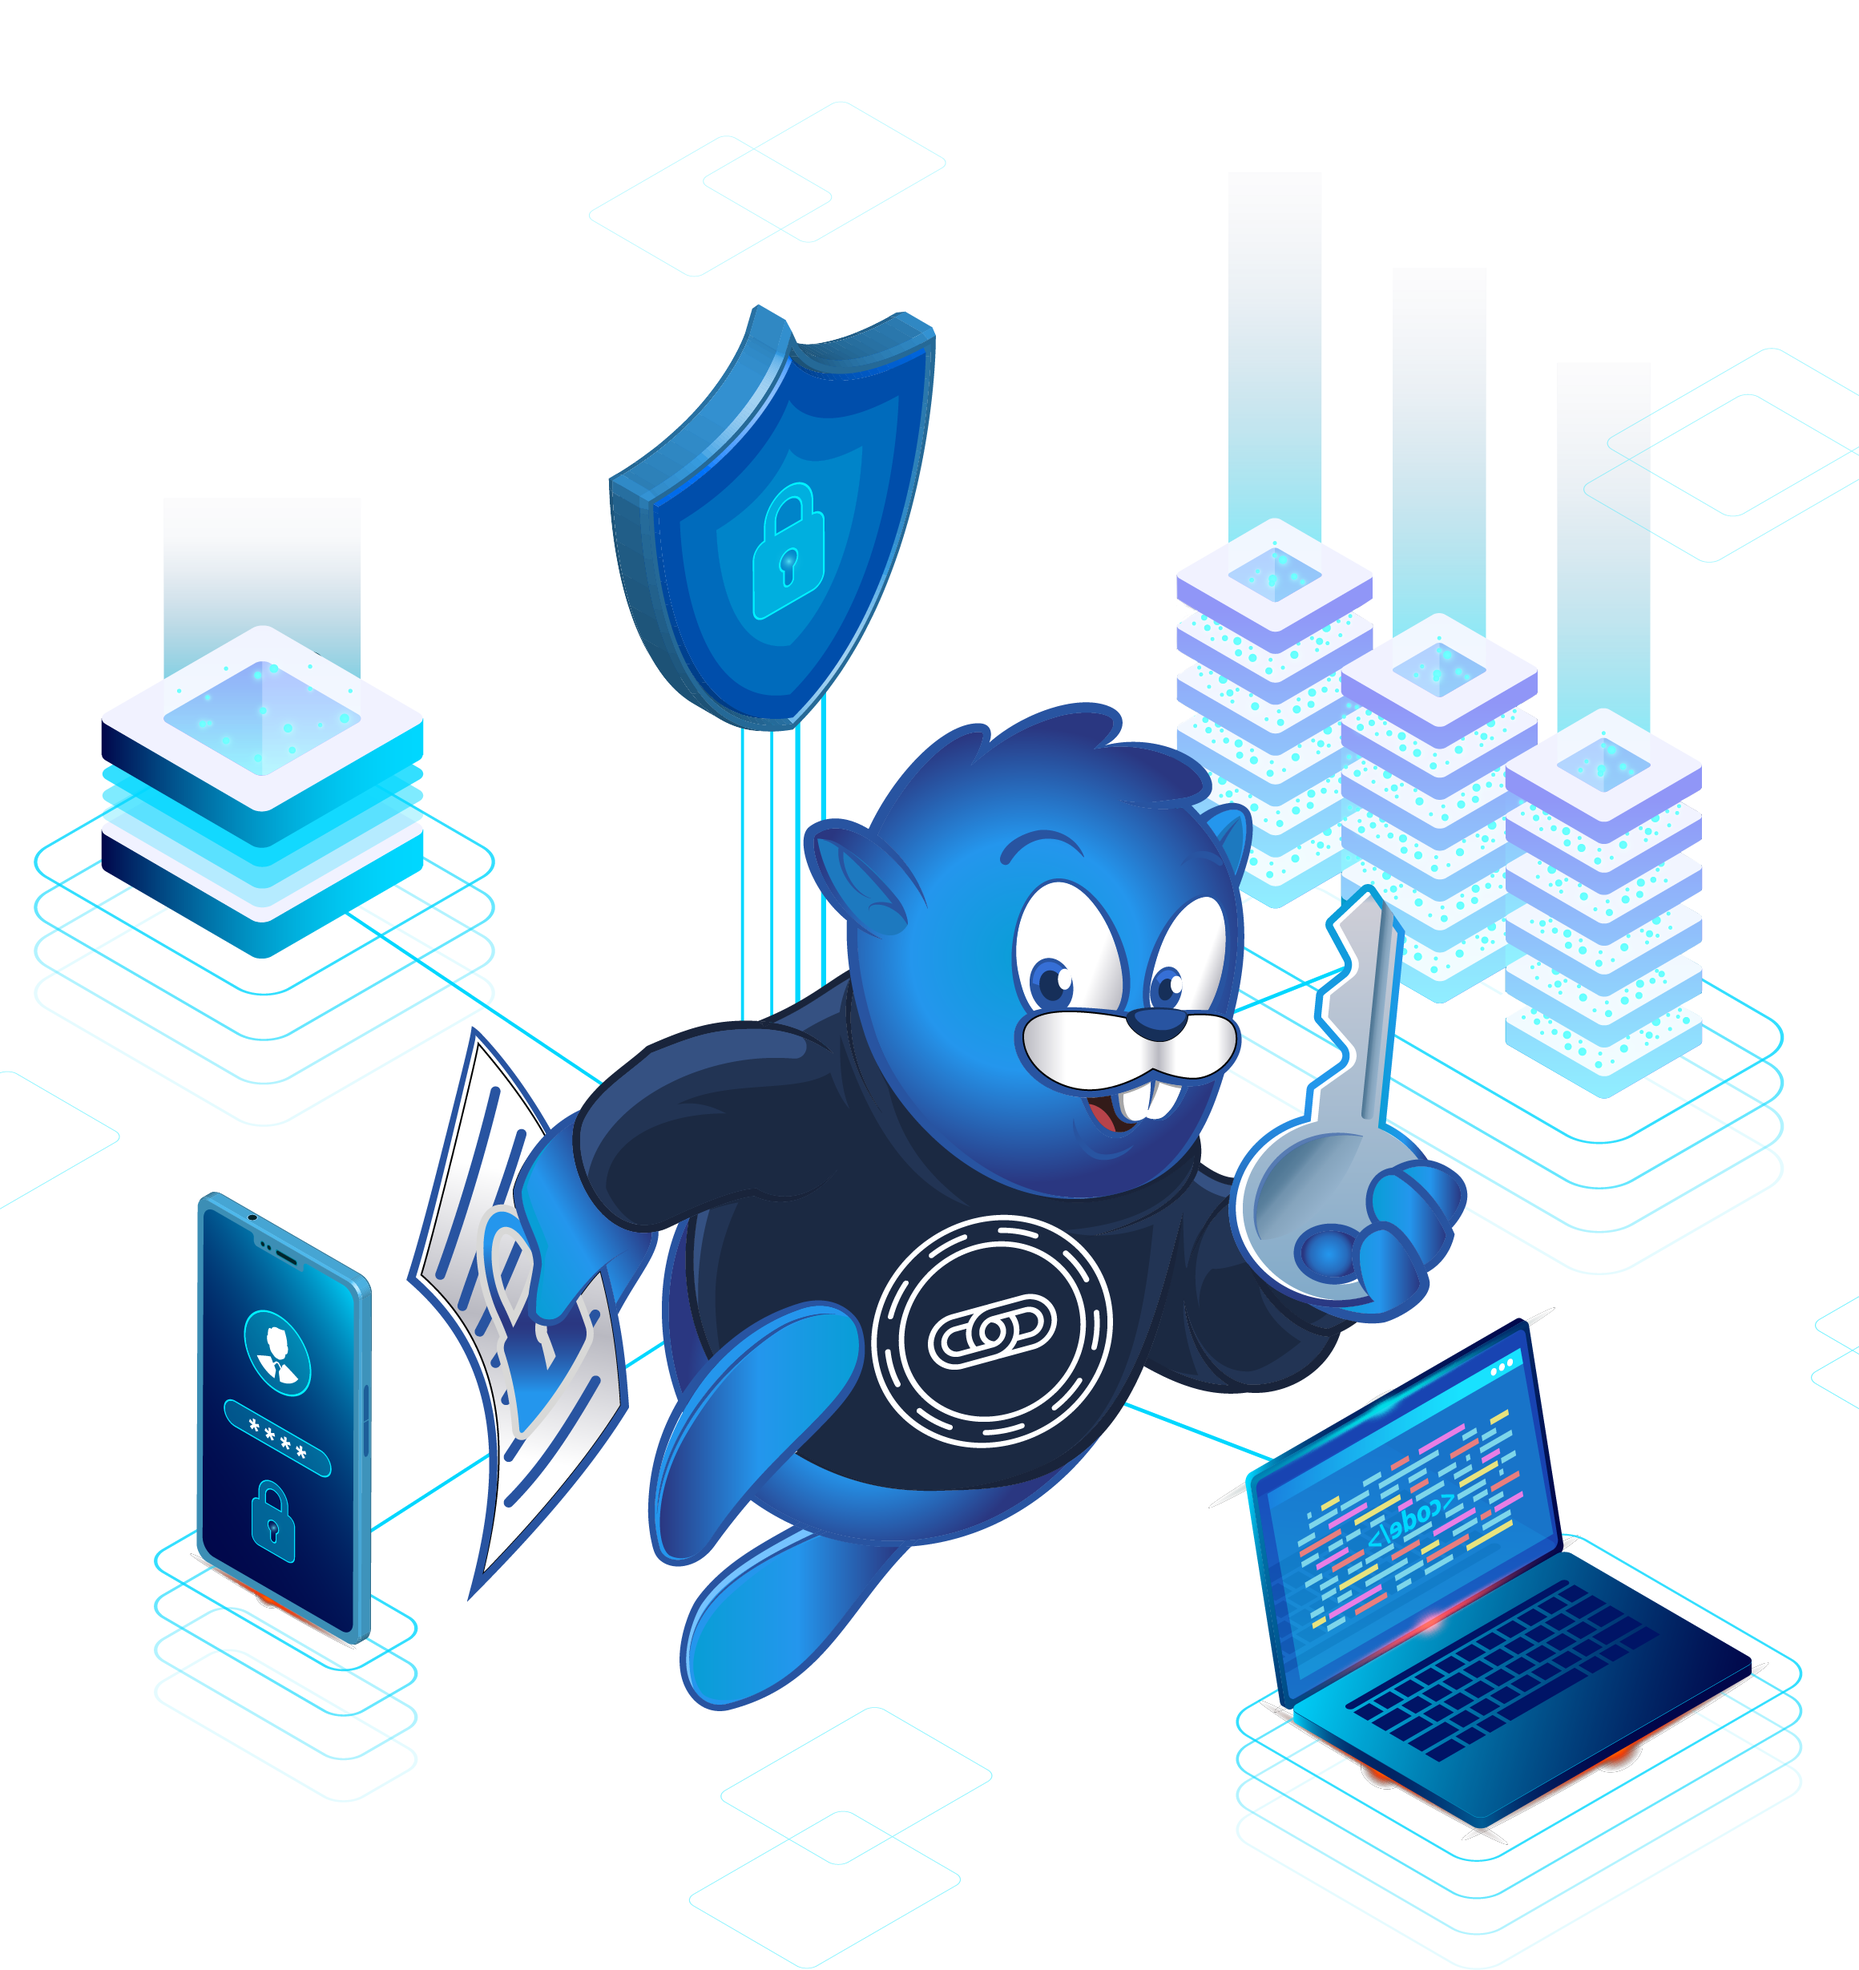
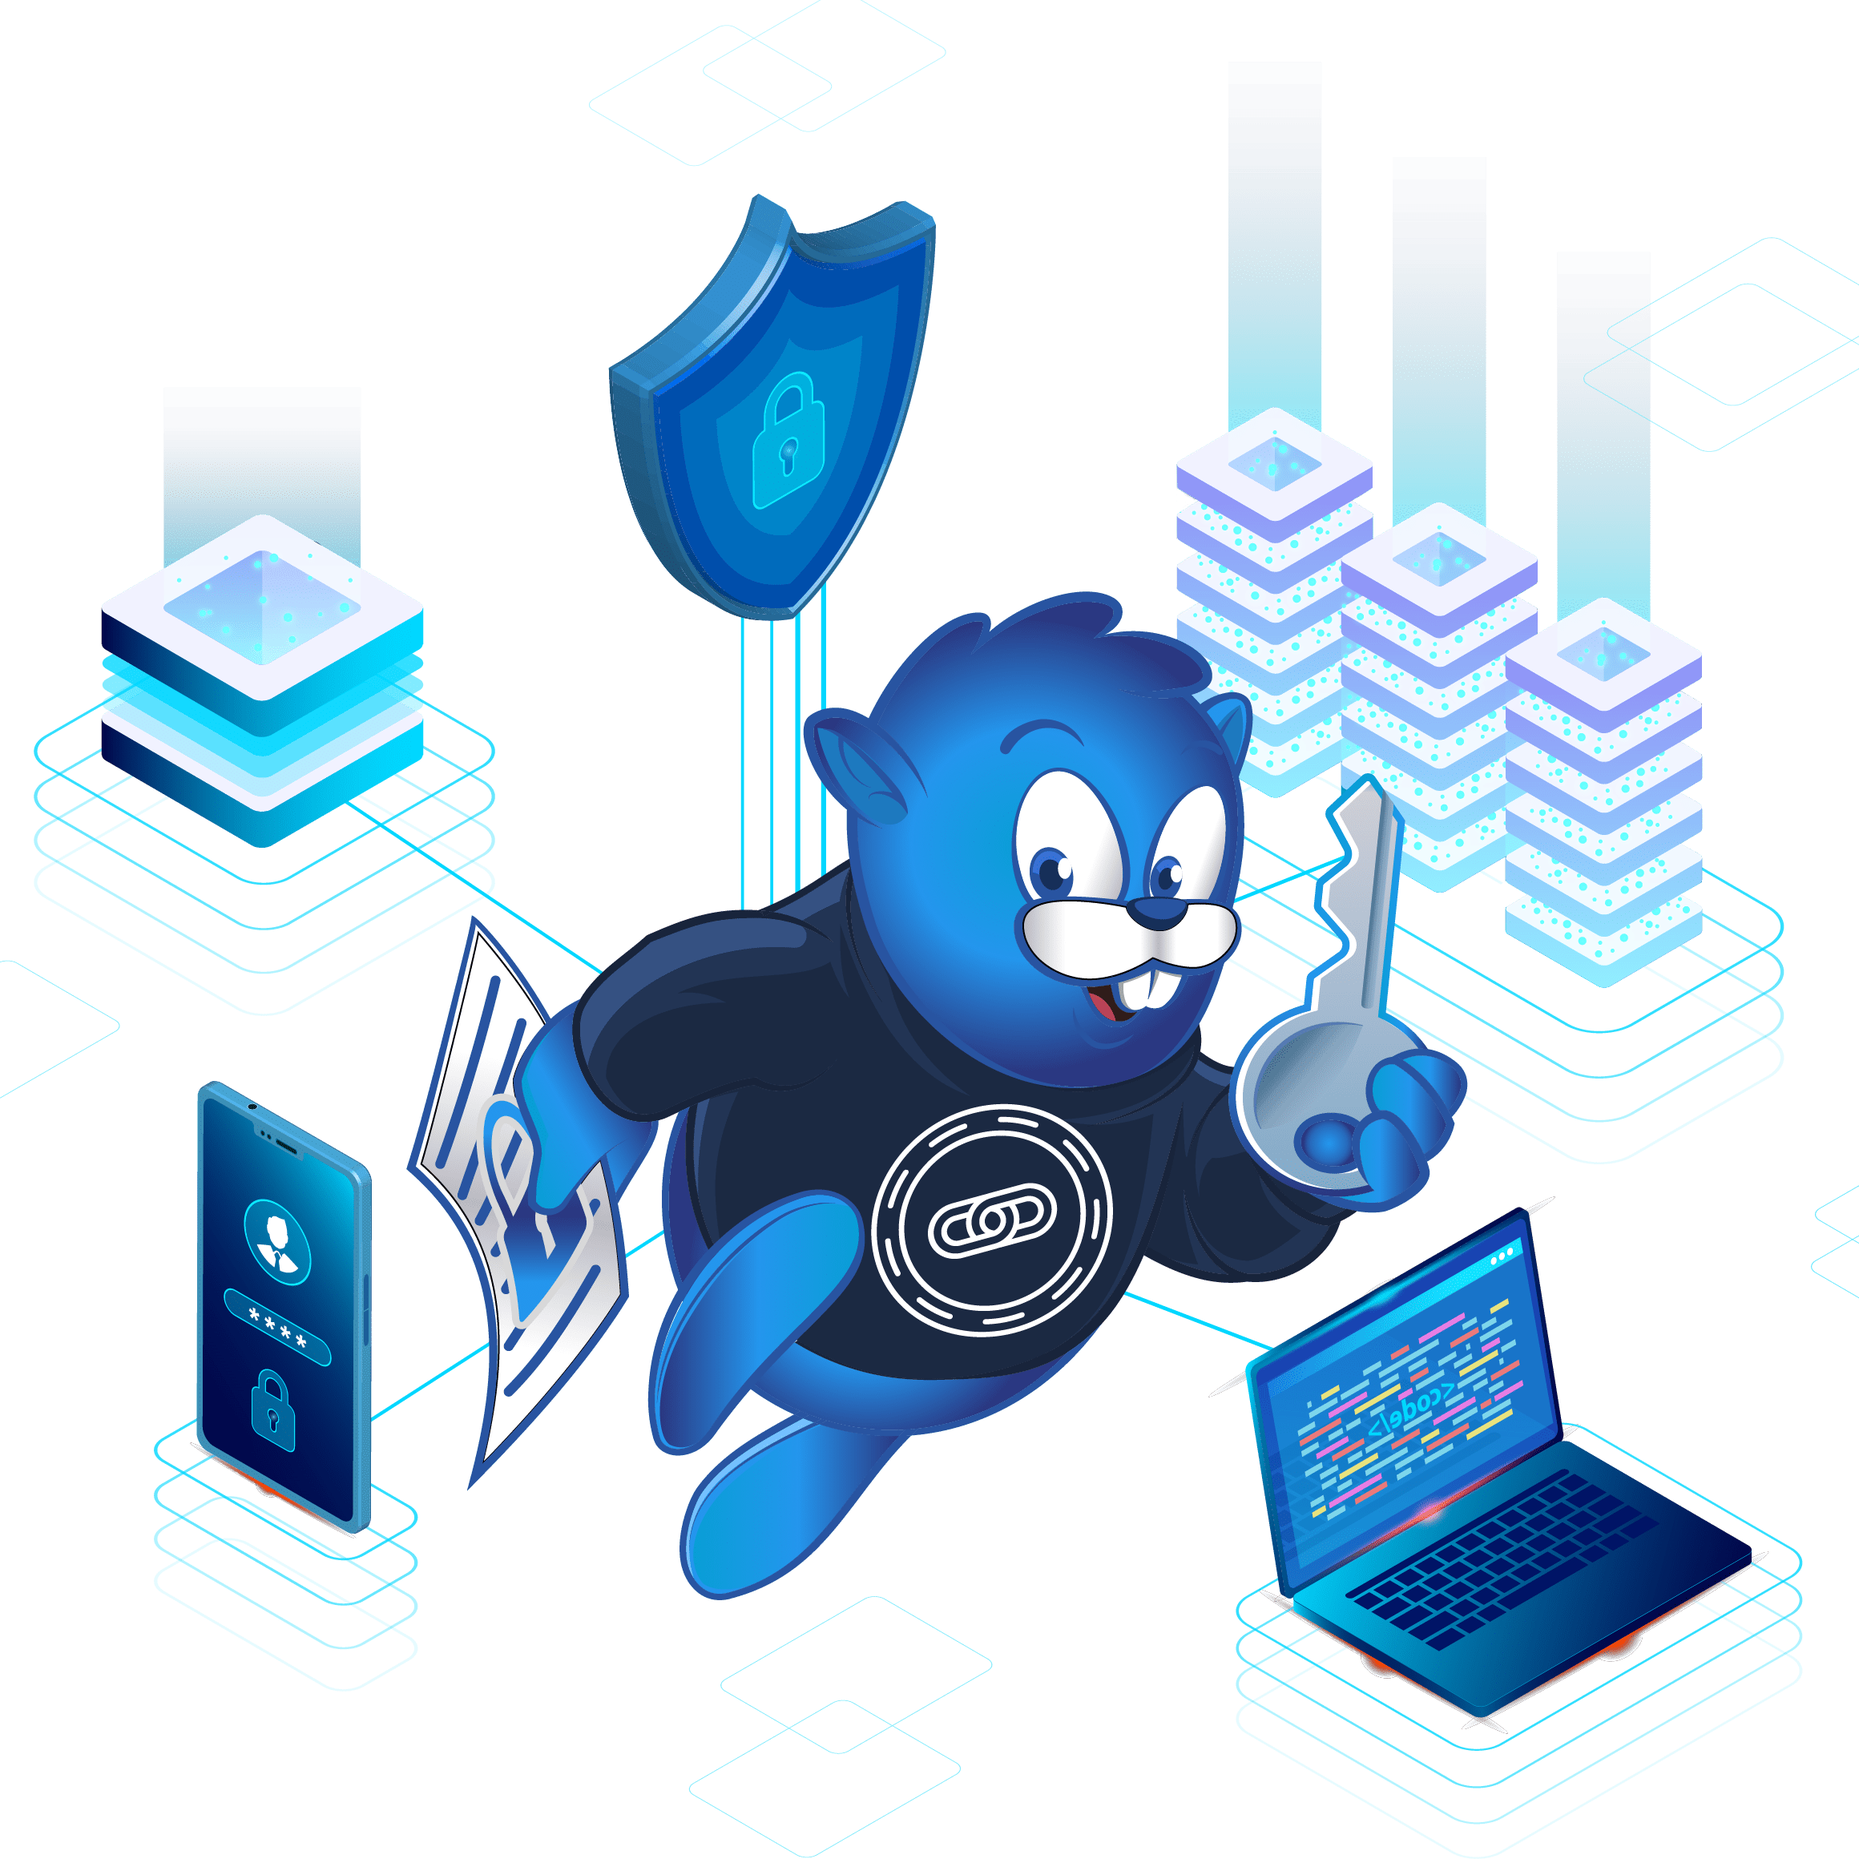
chore: update immudb header mascot image

Changed region(s): [[0.0, 0.0931, 0.9931, 0.9931], [0.9931, 0.6828, 1.0, 0.7138]]

diff --git a/components/sections/technologies/immudb/ImmudbHeader.vue b/components/sections/technologies/immudb/ImmudbHeader.vue
@@ -275,7 +275,7 @@ $mascot-height-small: 100px;
 
 .mascot-image {
 	height: auto;
-	max-height: 520px;
+	max-height: 480px;
 	object-fit: contain;
 
 	@media screen and (max-width: $mobile-max-width) {
